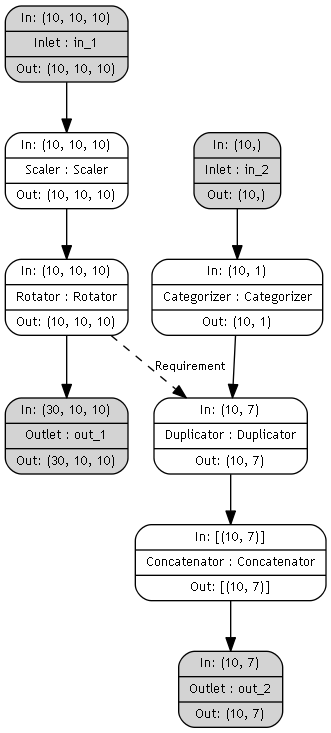
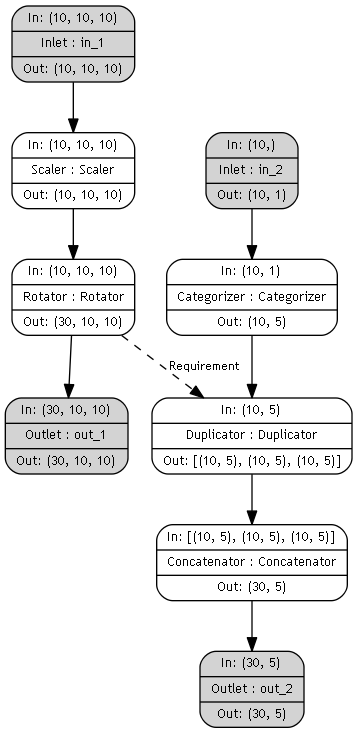
Visualize fix, PipeElement fix, variable rearrange

diff --git a/lyteflow/kernels/base.py b/lyteflow/kernels/base.py
@@ -75,8 +75,11 @@ class PipeElement(Base):
 
     Properties
     ----------------
+    n_input : int
+        The number of inputs received in flow
+        
     n_output : int
-        The number of outputs produced
+        The number of outputs produced in flow
 
     configured : bool
         If the PipeElement is configured
@@ -121,9 +124,14 @@ class PipeElement(Base):
         kwargs.pop("unconfigured_upstream", None)
         kwargs.pop("unconfigured_downstream", None)
 
-        self._n_output = 0
+        self._n_output = None
+        self._n_input = None
 
         Base.__init__(self, **kwargs)
+        
+    @property
+    def n_input(self):
+        return self._n_input
 
     @property
     def n_output(self):
@@ -194,7 +202,7 @@ class PipeElement(Base):
             When the given FlowData is not addressed to this PipeElement
 
         """
-
+        self._n_input = 1
         self._flow_preset_check(x)
         to_element = self.downstream[0] if self.downstream != tuple() else None
         flow_data = FlowData(
@@ -209,7 +217,8 @@ class PipeElement(Base):
     def reset(self):
         """Resets the PipeElement"""
         super().reset()
-        self._n_output = 0
+        self._n_output = None
+        self._n_input = None
 
     def attach_upstream(self, upstream):
         """Attaches an upstream PipeElement
@@ -333,6 +342,7 @@ class PipeElement(Base):
             "output_columns",
             "_executed",
             "_n_output",
+            "_n_input",
             "requirements",
             "func",
             "_unconfigured_upstream",
@@ -532,17 +542,11 @@ class PipeElement(Base):
                 requirement.argument,
                 requirement.pipe_element.__getattribute__(requirement.attribute),
             )
-            # TODO: investigate
-
         try:
-            
             self.input_dimensions = x.data.shape
             self.input_columns = x.data.columns
-            print(self.input_dimensions)
         except AttributeError:
             pass
-        print("preset in", self.input_dimensions)
-        print("preset out", self.output_dimensions)
 
     def _flow_postset_check(self, x):
         """Checks the postset configuration and data
@@ -553,13 +557,12 @@ class PipeElement(Base):
             The data to be checked and set
 
         """
+        
         try:
             self.output_dimensions = x.data.shape
             self.output_columns = x.data.columns
         except AttributeError:
             pass
-        print("postset in", self.input_dimensions)
-        print("postset out", self.output_dimensions)
 
     def __call__(self, upstream):
         """Attaches the given PipeElement in both directions

diff --git a/lyteflow/kernels/split.py b/lyteflow/kernels/split.py
@@ -61,7 +61,7 @@ class _Split(PipeElement):
             raise ValueError("Expected number of outputs cannot be less than 1")
         self.n_result = n_result
         PipeElement.__init__(self, **kwargs)
-        print(self.n_result)
+        
 
     def flow(self, x):
         """Receives FlowData from upstream, transforms, produces FlowData for downstream
@@ -102,13 +102,10 @@ class _Split(PipeElement):
             When the produced data does not match the expected outcome
 
         """
-        print("n_result", self.n_result)
+        self._n_input = 1
         self._flow_preset_check(x)
-        print(self.n_result)
         transformed_x = self.transform(x.data)
-        print(self.n_result)
         self._flow_postset_check(*transformed_x)
-        print(self.n_result)
         self._executed = True
         self._n_output = self.n_result
 

diff --git a/lyteflow/visualize.py b/lyteflow/visualize.py
@@ -39,7 +39,7 @@ def _pipe_system_to_dot(pipe_system):
     for element in pipe_system.all_elements:
         element_class = element.__class__.__name__
         in_dim = str(element.input_dimensions)
-        out_dim = str(element.input_dimensions)
+        out_dim = str(element.output_dimensions)
         label = "{ In: %s | %s : %s | Out: %s }" % (in_dim, element_class, element.name, out_dim)
         
         if isinstance(element, Inlet) or isinstance(element, Outlet):
@@ -68,9 +68,6 @@ def plot_pipe_system(pipe_system, file_name="pipe_system.png"):
         
     file_name : str
         The name of the file that is produced
-    
-    Raises
-    ------------------
     
     
     """

diff --git a/tests/sample.py b/tests/sample.py
@@ -52,7 +52,7 @@ def make_complex_pipe_system_req():
     con = Concatenator()(dup)
     out_2 = Outlet(name="out_2")(con)
 
-    dup.add_requirement(Requirement(rot, attribute="n_output", argument="n_result"))
+    dup.add_requirement(Requirement(rot, attribute="n_rotations", argument="n_result"))
 
     return PipeSystem(
         inlets=[in_1, in_2], outlets=[out_1, out_2], name="ps", verbose=True
@@ -61,5 +61,6 @@ def make_complex_pipe_system_req():
 
 ps_complex = make_complex_pipe_system()
 ps_simple = make_simple_pipesystem()
+ps_complex_req = make_complex_pipe_system_req()
 
 pt = PTGraph(ps_complex)

diff --git a/lyteflow/kernels/merge.py b/lyteflow/kernels/merge.py
@@ -89,7 +89,9 @@ class _Merge(PipeElement):
 
         ValueError
             When the given FlowData is not addressed to this PipeElement
+            
         """
+        self._n_input = len(x)
         self._flow_preset_check(*x)
         flow_data = FlowData(
             from_element=self,
@@ -98,6 +100,7 @@ class _Merge(PipeElement):
         )
         self._executed = True
         self._flow_postset_check(flow_data)
+        self._n_output = 1
 
         return (flow_data,)
 

diff --git a/lyteflow/kernels/img.py b/lyteflow/kernels/img.py
@@ -201,7 +201,7 @@ class Rotator(PipeElement):
 
         self.keep_original = keep_original
         self.rotations = sorted(set(verified_rotations))
-        self._n_output = len(self.rotations)
+        self.n_rotations = len(self.rotations)
         self.remove_padding = remove_padding
 
     def transform(self, x):

diff --git a/tests/kernels/test_base_pipe_element.py b/tests/kernels/test_base_pipe_element.py
@@ -64,6 +64,7 @@ class TestConfig:
             "rotations": [-90, 0, 90],
             "remove_padding": True,
             "keep_original": True,
+            "n_rotations": 3
         }
 
         result = r.to_config()["attributes"]

diff --git a/README.md b/README.md
@@ -12,6 +12,11 @@ Lyteflow is to ensure consistent, simple, and sequential data transformations. A
 git clone https://github.com/MammothStack/Lyteflow.git Lyteflow
 ```
 ## Usages
+Concurrent data pipelines can be created with dependencies between each transformation.
+Here the images are rotated n times (this can be ambiguous as rotations such as 10 and 370 degrees are the same thing)
+and so the labels also need to be duplicated n number of times. This dependecy is created through the Requirement
+class:
+
 ```python
 from lyteflow.construct import PipeSystem
 from lyteflow.kernels import *
@@ -27,12 +32,23 @@ dup = Duplicator()(cat)
 con = Concatenator()(dup)
 out_2 = Outlet(name="out_2")(con)
 
-dup.add_requirement(Requirement(rot, attribute="n_output", argument="n_result"))
+dup.add_requirement(Requirement(rot, attribute="n_rotations", argument="n_result"))
 
 ps = PipeSystem(inlets=[in_1, in_2], outlets=[out_1, out_2], name="ps", verbose=True)
 
 processed_images, processed_labels = ps.flow(images, labels)
 ```
+
+The resulting PipeSystem will look as follows:
+![pipe_system image](pipe_system.png "PipeSystem")
+
+In order to create visualizations just import the plot_pipe_system method from the _visualize_ module
+```python
+from lyteflow.visualize import plot_pipe_system
+from lyteflow.sample import ps_complex_req
+
+plot_pipe_system(ps_complex_req, file_name="pipe_system.png")
+´´´
 ## Authors
 Patrick Bogner
 ## License
